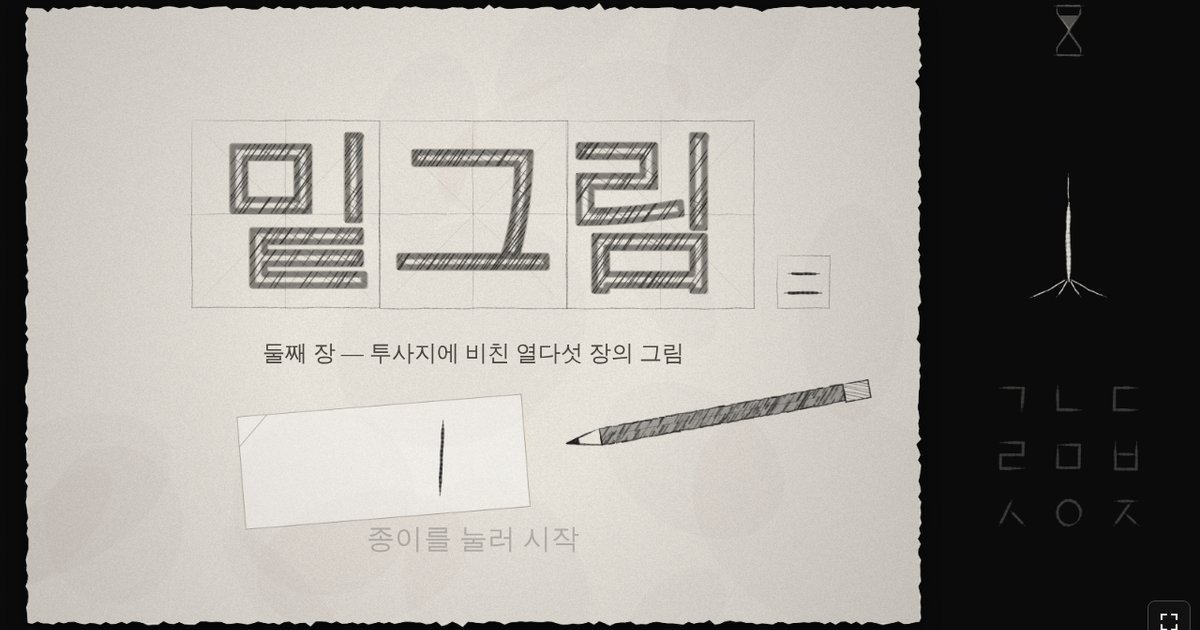
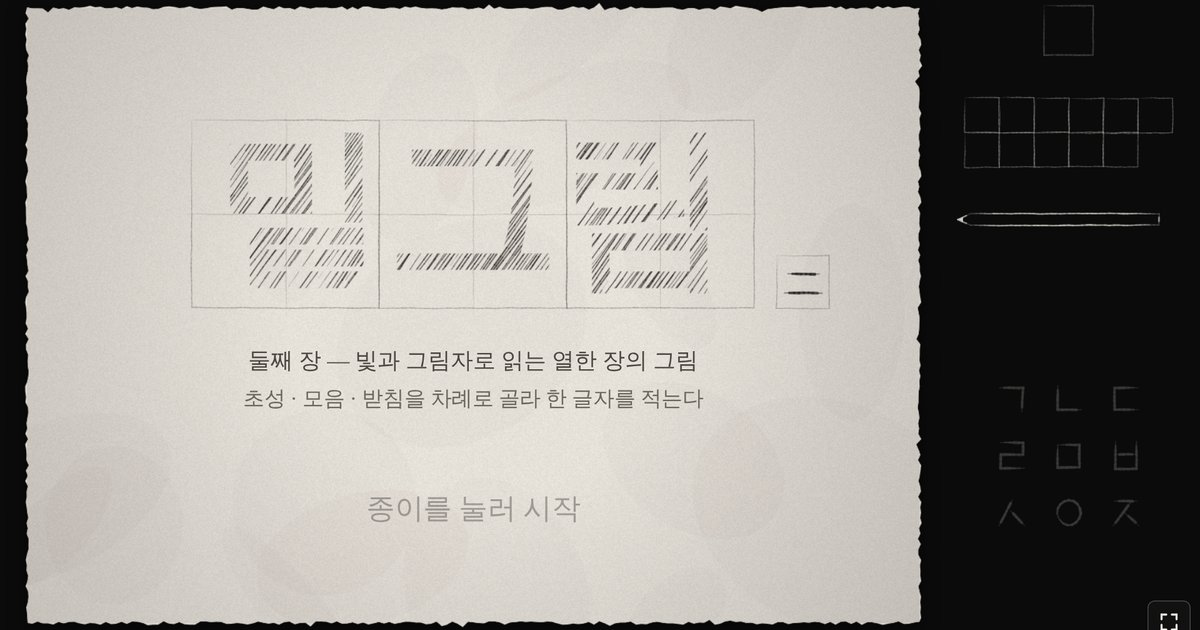
fix(intro): 밑그림 둘째 장 소개 화면을 새 판에 맞춤
소개 글과 화면 캡처가 투사지를 쓰던 첫 판 기준이었다. 사물의 모양과 그림자로 푸는 열한 장 판으로 글·캡처·미리보기 그림을 새로 했고, 다른 게임 소개 화면의 비슷한 게임 카드 설명도 바꿨다.

diff --git a/intro/mitgeurim2/index.html b/intro/mitgeurim2/index.html
@@ -3,15 +3,15 @@
 <head>
 <meta charset="utf-8">
 <meta name="viewport" content="width=device-width, initial-scale=1, viewport-fit=cover">
-<title>밑그림 둘째 장 | 투사지로 숨은 글자를 찾는 고난도 그림 퍼즐 · 무료 웹게임</title>
-<meta name="description" content="연필로 그린 방의 사물은 자음, 투사지에 베낀 먹선은 모음. 둘을 겹쳐 글자를 만드는 열다섯 장의 그림 퍼즐. 「밑그림」의 둘째 장, 설치 없이 바로 하는 무료 고난도 웹 퍼즐.">
-<meta name="keywords" content="고난도 퍼즐, 그림 퍼즐, 숨은 글자 찾기, 한글 퍼즐, 방탈출 게임, 무료 웹게임, 밑그림 2, 달빛 오락실">
+<title>밑그림 둘째 장 | 사물과 그림자로 숨은 글자를 찾는 그림 퍼즐 · 무료 웹게임</title>
+<meta name="description" content="연필로 그린 방의 사물을 세우고, 돌리고, 촛불을 옮기면 사물의 모양과 그림자가 한 글자가 된다. 열한 장의 그림에서 글자를 모아 한 문장을 완성하는 「밑그림」의 둘째 장. 설치 없이 바로 하는 무료 웹 퍼즐.">
+<meta name="keywords" content="그림 퍼즐, 그림자 퍼즐, 숨은 글자 찾기, 한글 퍼즐, 방탈출 게임, 무료 웹게임, 밑그림 2, 달빛 오락실">
 <link rel="canonical" href="https://game.edoori.co.kr/intro/mitgeurim2/">
 <meta name="theme-color" content="#17153a">
 <meta property="og:type" content="website">
 <meta property="og:site_name" content="달빛 오락실">
 <meta property="og:title" content="밑그림 둘째 장 · 달빛 오락실">
-<meta property="og:description" content="연필로 그린 방의 사물은 자음, 투사지에 베낀 먹선은 모음. 둘을 겹쳐 글자를 만드는 열다섯 장의 그림 퍼즐. 「밑그림」의 둘째 장, 설치 없이 바로 하는 무료 고난도 웹 퍼즐.">
+<meta property="og:description" content="연필로 그린 방의 사물을 세우고, 돌리고, 촛불을 옮기면 사물의 모양과 그림자가 한 글자가 된다. 열한 장의 그림에서 글자를 모아 한 문장을 완성하는 「밑그림」의 둘째 장. 설치 없이 바로 하는 무료 웹 퍼즐.">
 <meta property="og:url" content="https://game.edoori.co.kr/intro/mitgeurim2/">
 <meta property="og:image" content="https://game.edoori.co.kr/intro/mitgeurim2/og.jpg">
 <meta property="og:image:width" content="1200">
@@ -22,7 +22,7 @@
 <link rel="preconnect" href="https://fonts.gstatic.com" crossorigin>
 <link href="https://fonts.googleapis.com/css2?family=Jua&family=Gowun+Dodum&display=swap" rel="stylesheet">
 <link rel="stylesheet" href="../intro.css?v=4c868d9e">
-<script type="application/ld+json">{"@context": "https://schema.org", "@type": "VideoGame", "name": "밑그림 둘째 장", "description": "연필로 그린 방의 사물은 자음, 투사지에 베낀 먹선은 모음. 둘을 겹쳐 글자를 만드는 열다섯 장의 그림 퍼즐. 「밑그림」의 둘째 장, 설치 없이 바로 하는 무료 고난도 웹 퍼즐.", "url": "https://game.edoori.co.kr/intro/mitgeurim2/", "image": "https://game.edoori.co.kr/intro/mitgeurim2/og.jpg", "genre": "퍼즐 게임", "gamePlatform": ["웹 브라우저", "휴대폰", "태블릿", "컴퓨터"], "applicationCategory": "Game", "operatingSystem": "Any", "inLanguage": "ko", "isAccessibleForFree": true, "offers": {"@type": "Offer", "price": "0", "priceCurrency": "KRW"}, "isPartOf": {"@type": "WebSite", "name": "달빛 오락실", "url": "https://game.edoori.co.kr/"}}</script>
+<script type="application/ld+json">{"@context": "https://schema.org", "@type": "VideoGame", "name": "밑그림 둘째 장", "description": "연필로 그린 방의 사물을 세우고, 돌리고, 촛불을 옮기면 사물의 모양과 그림자가 한 글자가 된다. 열한 장의 그림에서 글자를 모아 한 문장을 완성하는 「밑그림」의 둘째 장. 설치 없이 바로 하는 무료 웹 퍼즐.", "url": "https://game.edoori.co.kr/intro/mitgeurim2/", "image": "https://game.edoori.co.kr/intro/mitgeurim2/og.jpg", "genre": "퍼즐 게임", "gamePlatform": ["웹 브라우저", "휴대폰", "태블릿", "컴퓨터"], "applicationCategory": "Game", "operatingSystem": "Any", "inLanguage": "ko", "isAccessibleForFree": true, "offers": {"@type": "Offer", "price": "0", "priceCurrency": "KRW"}, "isPartOf": {"@type": "WebSite", "name": "달빛 오락실", "url": "https://game.edoori.co.kr/"}}</script>
 </head>
 <body class="landscape">
 <div class="sky" aria-hidden="true"></div>
@@ -33,12 +33,12 @@
 
 <main>
   <section class="hero">
-    <div class="hero-img"><img src="shot0.webp" width="1280" height="720" alt="밑그림 둘째 장 첫 화면" fetchpriority="high"></div>
+    <div class="hero-img"><img src="shot0.webp" width="1400" height="788" alt="밑그림 둘째 장 첫 화면" fetchpriority="high"></div>
     <div class="hero-txt">
       <p class="eyebrow">🧩 퍼즐 게임 · 무료 · 설치 없음</p>
       <h1>밑그림 둘째 장</h1>
-      <p class="lead">“투사지에 비친 열다섯 장의 그림”</p>
-      <ul class="facts"><li><span aria-hidden="true">⏱</span>전체 1시간 이상</li><li><span aria-hidden="true">🖼</span>그림 퍼즐 15장</li><li><span aria-hidden="true">↔</span>가로 화면</li><li><span aria-hidden="true">💾</span>자동 저장</li></ul>
+      <p class="lead">“빛과 그림자로 읽는 열한 장의 그림”</p>
+      <ul class="facts"><li><span aria-hidden="true">⏱</span>전체 30~60분</li><li><span aria-hidden="true">🖼</span>그림 퍼즐 11장</li><li><span aria-hidden="true">↔</span>가로 화면</li><li><span aria-hidden="true">💾</span>자동 저장</li></ul>
       <a class="start" href="/mitgeurim2/"><span aria-hidden="true">▶</span> 게임 시작</a>
       <p class="free">회원가입 없이 누르면 바로 시작돼요</p>
     </div>
@@ -46,26 +46,26 @@
 
   <section class="card">
     <h2>어떤 게임인가요?</h2>
-    <p>연필로 그린 방이 다시 열렸어요. 이번에는 책상 위에 반투명한 투사지 한 장이 놓여 있어요.</p><p>그림 속 사물은 글자의 첫소리와 받침이 되고, 투사지에 베낀 먹선은 가운데 모음이 돼요. 투사지를 그림의 접힌 자국에 딱 맞춰 겹쳐야 비로소 한 글자가 완성돼요.</p><p>한 장에서 베낀 먹선이 다음 장의 열쇠가 되고, 열네 장의 글자가 모이면 마지막 벽에 한 문장이 떠올라요. 1편을 하지 않았어도 바로 시작할 수 있어요.</p>
+    <p>연필로 그린 방이 다시 열렸어요. 이번 방의 사물들은 아직 흐린 밑그림이에요. 엎어진 액자, 물이 새는 세면대, 바람 빠진 풍선, 창밖의 호수, 벽 앞에 놓인 철사 조각…</p><p>사물을 제자리에 두면 그 모양이 한 글자가 돼요. 액자를 세우고, 수도꼭지를 돌리고, 창을 닫아 물결을 재워 보세요. 뒤로 가면 철사 조각의 그림자가 글자가 되는데, 그림자는 진짜 빛처럼 움직여요. 촛불을 옮기고, 등불을 올리고, 시곗바늘을 돌려 해의 기울기를 바꿔 보세요.</p><p>그림을 풀 때마다 밑그림이 진한 그림으로 완성돼요. 열한 장을 모두 풀면 모은 글자로 한 문장을 만들 차례예요. 1편을 하지 않았어도 바로 시작할 수 있어요.</p>
   </section>
 
   <section class="card">
     <h2>이렇게 해요</h2>
-    <ol class="steps"><li class="step"><div class="step-no">STEP 1</div><div class="step-ico" aria-hidden="true">👆</div><h3>사물을 살펴요</h3><p>방 안의 물건을 누르면 그 그림으로 들어가요. 움직이고, 당기고, 전등을 켜고 꺼 보며 글자가 될 모양을 찾아요.</p></li><li class="step"><div class="step-no">STEP 2</div><div class="step-ico" aria-hidden="true">📜</div><h3>먹선을 베껴요</h3><p>그림 속 먹선을 투사지에 베끼고, 투사지를 접힌 자국에 맞춰 겹쳐요. 돌아간 자국이면 투사지도 따라 돌아요.</p></li><li class="step"><div class="step-no">STEP 3</div><div class="step-ico" aria-hidden="true">✍</div><h3>글자를 적어요</h3><p>오른쪽 음절판에 첫소리 → 모음 → 받침 순서로 적어요. 맞히면 빨간 도장이 찍히고 나무에 잎이 돋아요.</p></li></ol>
-    <div class="shots"><figure class="shot"><img src="shot1.webp" width="1280" height="720" alt="투사지가 놓인 연필 그림 방" loading="lazy" decoding="async"><figcaption>투사지가 놓인 연필 그림 방</figcaption></figure></div>
+    <ol class="steps"><li class="step"><div class="step-no">STEP 1</div><div class="step-ico" aria-hidden="true">👆</div><h3>밑그림을 눌러요</h3><p>방 안의 흐린 사물을 누르면 그 그림으로 들어가요. 끌고, 누르고, 돌려 보며 사물을 제자리에 두어요.</p></li><li class="step"><div class="step-no">STEP 2</div><div class="step-ico" aria-hidden="true">🕯</div><h3>빛을 움직여요</h3><p>그림자 그림에서는 빛이나 조각을 옮겨요. 벽의 빈 액자 안에서 그림자가 무엇으로 읽히는지 스스로 알아봐야 해요.</p></li><li class="step"><div class="step-no">STEP 3</div><div class="step-ico" aria-hidden="true">✍</div><h3>글자를 적어요</h3><p>오른쪽 음절판에 첫소리 → 모음 → 받침 순서로 적어요. 맞히면 빨간 도장이 찍히고 오른쪽 원고지 한 칸이 채워져요.</p></li></ol>
+    <div class="shots"><figure class="shot"><img src="shot1.webp" width="1400" height="788" alt="흐린 밑그림으로 그려진 방" loading="lazy" decoding="async"><figcaption>흐린 밑그림으로 그려진 방</figcaption></figure><figure class="shot"><img src="shot2.webp" width="1400" height="788" alt="촛불 앞 철사 조각과 벽의 그림자" loading="lazy" decoding="async"><figcaption>촛불 앞 철사 조각과 벽의 그림자</figcaption></figure></div>
   </section>
 
-  <section class="card half"><h2>🌿 알아 두면 좋아요</h2><ul class="dots"><li>틀리면 잎이 하나 떨어지고, 세 번 틀리면 종이가 번져서 잠시 기다려야 해요.</li><li>오른쪽 위 모래시계는 그림 안에서만 흘러요. 모래가 다 내려오면 힌트가 하나씩 열려요. 한 장에 힌트는 세 개예요.</li><li>낮과 밤에 보이는 것이 달라요. 막히면 방의 전등을 꺼 보세요.</li><li>다시 처음부터 하고 싶으면 첫 화면이나 방 화면 오른쪽 아래의 「처음부터 새로」를 두 번 눌러요.</li></ul></section>
+  <section class="card half"><h2>🌿 알아 두면 좋아요</h2><ul class="dots"><li>게임은 맞았다고 먼저 알려 주지 않아요. 그림이 글자로 보일 때 스스로 판단해서 적어요.</li><li>틀리면 오른쪽 연필을 한 번 깎아요. 세 번 틀리면 종이가 번져서 잠시 기다려야 해요.</li><li>오른쪽 위 네모는 그림 안에 머무는 동안 연필 빗금으로 차요. 다 차면 눌러서 힌트를 볼 수 있어요. 한 장에 힌트는 세 개예요.</li><li>다시 처음부터 하고 싶으면 첫 화면이나 방 화면 오른쪽 아래의 「처음부터 새로」를 두 번 눌러요.</li></ul></section>
 
   <section class="card half">
     <h2>이런 분께 추천해요</h2>
-    <ul class="dots"><li>「밑그림」을 끝내고 더 어려운 퍼즐을 기다린 분</li><li>방탈출·암호 풀기를 좋아하는 분</li><li>한글이 모이고 겹쳐 글자가 되는 순간을 좋아하는 분</li></ul>
-    <p class="tip"><span aria-hidden="true">💡</span> 설명이 거의 없는 게임이라 막히는 게 당연해요. 모래시계 힌트를 기다리고, 투사지를 이리저리 돌려 보세요. 1편보다 어렵다면 「밑그림」부터 해 보는 것도 좋아요.</p>
+    <ul class="dots"><li>「밑그림」을 끝내고 둘째 장을 기다린 분</li><li>그림자놀이, 빛과 물체가 만드는 모양을 좋아하는 분</li><li>설명 없이 스스로 알아내는 퍼즐을 좋아하는 분</li></ul>
+    <p class="tip"><span aria-hidden="true">💡</span> 설명이 거의 없는 게임이라 처음엔 무엇을 할지 모를 수 있어요. 흐린 사물을 이리저리 만져 보고, 막히면 힌트 네모가 차기를 기다려 보세요.</p>
   </section>
 
   <section class="card half" id="device">
     <h2>📱 어떤 기기에서 하면 좋을까요?</h2>
-    <ul class="devs"><li class="dev"><span class="badge ok">가장 좋아요</span><div><b>컴퓨터·노트북</b> <small>크롬·엣지·웨일</small><p>투사지를 마우스로 섬세하게 맞출 수 있어요. 오른쪽 아래 전체 화면 버튼을 누르면 꽉 차요.</p></div></li><li class="dev"><span class="badge good">좋아요</span><div><b>태블릿</b> <small>아이패드·갤럭시탭</small><p>손가락으로 투사지를 끌고 돌리는 재미가 있어요. 가로로 눕혀 주세요.</p></div></li><li class="dev"><span class="badge soso">괜찮아요</span><div><b>휴대폰</b> <small>가로로 돌려서</small><p>가로 화면에서만 그려져요. 가는 먹선을 맞춰야 해서 화면이 작으면 조금 힘들 수 있어요.</p></div></li></ul>
+    <ul class="devs"><li class="dev"><span class="badge ok">가장 좋아요</span><div><b>컴퓨터·노트북</b> <small>크롬·엣지·웨일</small><p>마우스로 촛불과 조각을 섬세하게 옮길 수 있어요. 마지막 글자 배열도 끌어다 놓으면 편해요. 오른쪽 아래 전체 화면 버튼을 누르면 꽉 차요.</p></div></li><li class="dev"><span class="badge good">좋아요</span><div><b>태블릿</b> <small>아이패드·갤럭시탭</small><p>손가락으로 빛을 옮기는 재미가 있어요. 가로로 눕혀 주세요.</p></div></li><li class="dev"><span class="badge soso">괜찮아요</span><div><b>휴대폰</b> <small>가로로 돌려서</small><p>가로 화면에서만 그려져요. 그림자를 읽어야 해서 화면이 작으면 조금 힘들 수 있어요.</p></div></li></ul>
     <div class="warn">
       <b>⚠ 카카오톡·네이버 앱 안에서 열었다면</b>
       <p>오른쪽 위 메뉴(⋮ 또는 ···)에서 「다른 브라우저로 열기」를 눌러 크롬이나 사파리로 열어 주세요. 앱 안에서는 전체 화면이 안 되고 저장이 풀릴 수 있어요.</p>

diff --git a/intro/foglamp/index.html b/intro/foglamp/index.html
@@ -90,7 +90,7 @@
     <h2>🌙 이런 게임은 어때요?</h2>
     <div class="sims"><a class="sim" href="../mango/"><span class="sim-emo" aria-hidden="true">🐱</span><span class="sim-txt"><b>탐정 망고의 춤추는 대수사선</b><small>단서가 무엇을 증명하는지 따져 도토리 마을의 사건을 풀어요</small></span></a>
 <a class="sim" href="../myungyun/"><span class="sim-emo" aria-hidden="true">🎡</span><span class="sim-txt"><b>裵鄭 명윤랜드</b><small>음악 박자에 맞춰 도는 관람차에 같은 색 손님을 태워요</small></span></a>
-<a class="sim" href="../mitgeurim2/"><span class="sim-emo" aria-hidden="true">📜</span><span class="sim-txt"><b>밑그림 둘째 장</b><small>투사지에 먹선을 베껴 겹치면 글자가 되는 열다섯 장의 그림 퍼즐</small></span></a></div>
+<a class="sim" href="../mitgeurim2/"><span class="sim-emo" aria-hidden="true">📜</span><span class="sim-txt"><b>밑그림 둘째 장</b><small>사물의 모양과 그림자로 한 글자씩 찾는 열한 장의 그림 퍼즐</small></span></a></div>
     <a class="back" href="/">← 달빛 오락실 입구로</a>
   </section>
 </main>

diff --git a/intro/mitgeurim/index.html b/intro/mitgeurim/index.html
@@ -89,7 +89,7 @@
   <section class="more">
     <h2>🌙 이런 게임은 어때요?</h2>
     <div class="sims"><a class="sim" href="../myungyun/"><span class="sim-emo" aria-hidden="true">🎡</span><span class="sim-txt"><b>裵鄭 명윤랜드</b><small>음악 박자에 맞춰 도는 관람차에 같은 색 손님을 태워요</small></span></a>
-<a class="sim" href="../mitgeurim2/"><span class="sim-emo" aria-hidden="true">📜</span><span class="sim-txt"><b>밑그림 둘째 장</b><small>투사지에 먹선을 베껴 겹치면 글자가 되는 열다섯 장의 그림 퍼즐</small></span></a>
+<a class="sim" href="../mitgeurim2/"><span class="sim-emo" aria-hidden="true">📜</span><span class="sim-txt"><b>밑그림 둘째 장</b><small>사물의 모양과 그림자로 한 글자씩 찾는 열한 장의 그림 퍼즐</small></span></a>
 <a class="sim" href="../lumenfall/"><span class="sim-emo" aria-hidden="true">🪟</span><span class="sim-txt"><b>루멘폴</b><small>유리 조각에 물감을 떨어뜨려 스테인드글라스를 완성해요</small></span></a></div>
     <a class="back" href="/">← 달빛 오락실 입구로</a>
   </section>

diff --git a/intro/myungyun/index.html b/intro/myungyun/index.html
@@ -88,7 +88,7 @@
 
   <section class="more">
     <h2>🌙 이런 게임은 어때요?</h2>
-    <div class="sims"><a class="sim" href="../mitgeurim2/"><span class="sim-emo" aria-hidden="true">📜</span><span class="sim-txt"><b>밑그림 둘째 장</b><small>투사지에 먹선을 베껴 겹치면 글자가 되는 열다섯 장의 그림 퍼즐</small></span></a>
+    <div class="sims"><a class="sim" href="../mitgeurim2/"><span class="sim-emo" aria-hidden="true">📜</span><span class="sim-txt"><b>밑그림 둘째 장</b><small>사물의 모양과 그림자로 한 글자씩 찾는 열한 장의 그림 퍼즐</small></span></a>
 <a class="sim" href="../mitgeurim/"><span class="sim-emo" aria-hidden="true">✏</span><span class="sim-txt"><b>밑그림</b><small>연필 선 밑에 숨은 글자를 찾는 열 장의 그림 퍼즐</small></span></a>
 <a class="sim" href="../lumenfall/"><span class="sim-emo" aria-hidden="true">🪟</span><span class="sim-txt"><b>루멘폴</b><small>유리 조각에 물감을 떨어뜨려 스테인드글라스를 완성해요</small></span></a></div>
     <a class="back" href="/">← 달빛 오락실 입구로</a>

diff --git a/intro/hangul/index.html b/intro/hangul/index.html
@@ -89,7 +89,7 @@
   <section class="more">
     <h2>🌙 이런 게임은 어때요?</h2>
     <div class="sims"><a class="sim" href="../myungyun/"><span class="sim-emo" aria-hidden="true">🎡</span><span class="sim-txt"><b>裵鄭 명윤랜드</b><small>음악 박자에 맞춰 도는 관람차에 같은 색 손님을 태워요</small></span></a>
-<a class="sim" href="../mitgeurim2/"><span class="sim-emo" aria-hidden="true">📜</span><span class="sim-txt"><b>밑그림 둘째 장</b><small>투사지에 먹선을 베껴 겹치면 글자가 되는 열다섯 장의 그림 퍼즐</small></span></a>
+<a class="sim" href="../mitgeurim2/"><span class="sim-emo" aria-hidden="true">📜</span><span class="sim-txt"><b>밑그림 둘째 장</b><small>사물의 모양과 그림자로 한 글자씩 찾는 열한 장의 그림 퍼즐</small></span></a>
 <a class="sim" href="../mitgeurim/"><span class="sim-emo" aria-hidden="true">✏</span><span class="sim-txt"><b>밑그림</b><small>연필 선 밑에 숨은 글자를 찾는 열 장의 그림 퍼즐</small></span></a></div>
     <a class="back" href="/">← 달빛 오락실 입구로</a>
   </section>

diff --git a/intro/lanternfall/index.html b/intro/lanternfall/index.html
@@ -89,7 +89,7 @@
   <section class="more">
     <h2>🌙 이런 게임은 어때요?</h2>
     <div class="sims"><a class="sim" href="../myungyun/"><span class="sim-emo" aria-hidden="true">🎡</span><span class="sim-txt"><b>裵鄭 명윤랜드</b><small>음악 박자에 맞춰 도는 관람차에 같은 색 손님을 태워요</small></span></a>
-<a class="sim" href="../mitgeurim2/"><span class="sim-emo" aria-hidden="true">📜</span><span class="sim-txt"><b>밑그림 둘째 장</b><small>투사지에 먹선을 베껴 겹치면 글자가 되는 열다섯 장의 그림 퍼즐</small></span></a>
+<a class="sim" href="../mitgeurim2/"><span class="sim-emo" aria-hidden="true">📜</span><span class="sim-txt"><b>밑그림 둘째 장</b><small>사물의 모양과 그림자로 한 글자씩 찾는 열한 장의 그림 퍼즐</small></span></a>
 <a class="sim" href="../mitgeurim/"><span class="sim-emo" aria-hidden="true">✏</span><span class="sim-txt"><b>밑그림</b><small>연필 선 밑에 숨은 글자를 찾는 열 장의 그림 퍼즐</small></span></a></div>
     <a class="back" href="/">← 달빛 오락실 입구로</a>
   </section>

diff --git a/intro/lumenfall/index.html b/intro/lumenfall/index.html
@@ -89,7 +89,7 @@
   <section class="more">
     <h2>🌙 이런 게임은 어때요?</h2>
     <div class="sims"><a class="sim" href="../myungyun/"><span class="sim-emo" aria-hidden="true">🎡</span><span class="sim-txt"><b>裵鄭 명윤랜드</b><small>음악 박자에 맞춰 도는 관람차에 같은 색 손님을 태워요</small></span></a>
-<a class="sim" href="../mitgeurim2/"><span class="sim-emo" aria-hidden="true">📜</span><span class="sim-txt"><b>밑그림 둘째 장</b><small>투사지에 먹선을 베껴 겹치면 글자가 되는 열다섯 장의 그림 퍼즐</small></span></a>
+<a class="sim" href="../mitgeurim2/"><span class="sim-emo" aria-hidden="true">📜</span><span class="sim-txt"><b>밑그림 둘째 장</b><small>사물의 모양과 그림자로 한 글자씩 찾는 열한 장의 그림 퍼즐</small></span></a>
 <a class="sim" href="../mitgeurim/"><span class="sim-emo" aria-hidden="true">✏</span><span class="sim-txt"><b>밑그림</b><small>연필 선 밑에 숨은 글자를 찾는 열 장의 그림 퍼즐</small></span></a></div>
     <a class="back" href="/">← 달빛 오락실 입구로</a>
   </section>

diff --git a/intro/puzzle25/index.html b/intro/puzzle25/index.html
@@ -89,7 +89,7 @@
   <section class="more">
     <h2>🌙 이런 게임은 어때요?</h2>
     <div class="sims"><a class="sim" href="../myungyun/"><span class="sim-emo" aria-hidden="true">🎡</span><span class="sim-txt"><b>裵鄭 명윤랜드</b><small>음악 박자에 맞춰 도는 관람차에 같은 색 손님을 태워요</small></span></a>
-<a class="sim" href="../mitgeurim2/"><span class="sim-emo" aria-hidden="true">📜</span><span class="sim-txt"><b>밑그림 둘째 장</b><small>투사지에 먹선을 베껴 겹치면 글자가 되는 열다섯 장의 그림 퍼즐</small></span></a>
+<a class="sim" href="../mitgeurim2/"><span class="sim-emo" aria-hidden="true">📜</span><span class="sim-txt"><b>밑그림 둘째 장</b><small>사물의 모양과 그림자로 한 글자씩 찾는 열한 장의 그림 퍼즐</small></span></a>
 <a class="sim" href="../mitgeurim/"><span class="sim-emo" aria-hidden="true">✏</span><span class="sim-txt"><b>밑그림</b><small>연필 선 밑에 숨은 글자를 찾는 열 장의 그림 퍼즐</small></span></a></div>
     <a class="back" href="/">← 달빛 오락실 입구로</a>
   </section>

diff --git a/intro/mango/index.html b/intro/mango/index.html
@@ -90,7 +90,7 @@
     <h2>🌙 이런 게임은 어때요?</h2>
     <div class="sims"><a class="sim" href="../foglamp/"><span class="sim-emo" aria-hidden="true">🌫</span><span class="sim-txt"><b>안개등</b><small>비 오는 항구, 물건을 겹쳐 숨은 글자를 찾는 느와르 퍼즐</small></span></a>
 <a class="sim" href="../myungyun/"><span class="sim-emo" aria-hidden="true">🎡</span><span class="sim-txt"><b>裵鄭 명윤랜드</b><small>음악 박자에 맞춰 도는 관람차에 같은 색 손님을 태워요</small></span></a>
-<a class="sim" href="../mitgeurim2/"><span class="sim-emo" aria-hidden="true">📜</span><span class="sim-txt"><b>밑그림 둘째 장</b><small>투사지에 먹선을 베껴 겹치면 글자가 되는 열다섯 장의 그림 퍼즐</small></span></a></div>
+<a class="sim" href="../mitgeurim2/"><span class="sim-emo" aria-hidden="true">📜</span><span class="sim-txt"><b>밑그림 둘째 장</b><small>사물의 모양과 그림자로 한 글자씩 찾는 열한 장의 그림 퍼즐</small></span></a></div>
     <a class="back" href="/">← 달빛 오락실 입구로</a>
   </section>
 </main>

diff --git a/intro/tools/games.py b/intro/tools/games.py
@@ -15,7 +15,7 @@ CATS = {
 ALL = [
     # slug, 이모지, 이름, 분류, 한 줄
     ("myungyun", "🎡", "裵鄭 명윤랜드", "puzzle", "음악 박자에 맞춰 도는 관람차에 같은 색 손님을 태워요"),
-    ("mitgeurim2", "📜", "밑그림 둘째 장", "puzzle", "투사지에 먹선을 베껴 겹치면 글자가 되는 열다섯 장의 그림 퍼즐"),
+    ("mitgeurim2", "📜", "밑그림 둘째 장", "puzzle", "사물의 모양과 그림자로 한 글자씩 찾는 열한 장의 그림 퍼즐"),
     ("mitgeurim", "✏", "밑그림", "puzzle", "연필 선 밑에 숨은 글자를 찾는 열 장의 그림 퍼즐"),
     ("lumenfall", "🪟", "루멘폴", "puzzle", "유리 조각에 물감을 떨어뜨려 스테인드글라스를 완성해요"),
     ("lanternfall", "🏮", "랜턴폴", "puzzle", "등불 하나가 터지면 옆으로 번져 밤하늘을 밝혀요"),
@@ -111,32 +111,32 @@ GAMES["mitgeurim"] = dict(
 
 GAMES["mitgeurim2"] = dict(
     name="밑그림 둘째 장", short="밑그림 2", emoji="📜", cat="puzzle",
-    title_seo="밑그림 둘째 장 | 투사지로 숨은 글자를 찾는 고난도 그림 퍼즐 · 무료 웹게임",
-    desc="연필로 그린 방의 사물은 자음, 투사지에 베낀 먹선은 모음. 둘을 겹쳐 글자를 만드는 열다섯 장의 그림 퍼즐. 「밑그림」의 둘째 장, 설치 없이 바로 하는 무료 고난도 웹 퍼즐.",
-    lead="투사지에 비친 열다섯 장의 그림",
+    title_seo="밑그림 둘째 장 | 사물과 그림자로 숨은 글자를 찾는 그림 퍼즐 · 무료 웹게임",
+    desc="연필로 그린 방의 사물을 세우고, 돌리고, 촛불을 옮기면 사물의 모양과 그림자가 한 글자가 된다. 열한 장의 그림에서 글자를 모아 한 문장을 완성하는 「밑그림」의 둘째 장. 설치 없이 바로 하는 무료 웹 퍼즐.",
+    lead="빛과 그림자로 읽는 열한 장의 그림",
     orient="landscape",
-    facts=[("⏱", "전체 1시간 이상"), ("🖼", "그림 퍼즐 15장"), ("↔", "가로 화면"), ("💾", "자동 저장")],
+    facts=[("⏱", "전체 30~60분"), ("🖼", "그림 퍼즐 11장"), ("↔", "가로 화면"), ("💾", "자동 저장")],
     story=[
-        "연필로 그린 방이 다시 열렸어요. 이번에는 책상 위에 반투명한 투사지 한 장이 놓여 있어요.",
-        "그림 속 사물은 글자의 첫소리와 받침이 되고, 투사지에 베낀 먹선은 가운데 모음이 돼요. 투사지를 그림의 접힌 자국에 딱 맞춰 겹쳐야 비로소 한 글자가 완성돼요.",
-        "한 장에서 베낀 먹선이 다음 장의 열쇠가 되고, 열네 장의 글자가 모이면 마지막 벽에 한 문장이 떠올라요. 1편을 하지 않았어도 바로 시작할 수 있어요.",
+        "연필로 그린 방이 다시 열렸어요. 이번 방의 사물들은 아직 흐린 밑그림이에요. 엎어진 액자, 물이 새는 세면대, 바람 빠진 풍선, 창밖의 호수, 벽 앞에 놓인 철사 조각…",
+        "사물을 제자리에 두면 그 모양이 한 글자가 돼요. 액자를 세우고, 수도꼭지를 돌리고, 창을 닫아 물결을 재워 보세요. 뒤로 가면 철사 조각의 그림자가 글자가 되는데, 그림자는 진짜 빛처럼 움직여요. 촛불을 옮기고, 등불을 올리고, 시곗바늘을 돌려 해의 기울기를 바꿔 보세요.",
+        "그림을 풀 때마다 밑그림이 진한 그림으로 완성돼요. 열한 장을 모두 풀면 모은 글자로 한 문장을 만들 차례예요. 1편을 하지 않았어도 바로 시작할 수 있어요.",
     ],
     steps=[
-        ("👆", "사물을 살펴요", "방 안의 물건을 누르면 그 그림으로 들어가요. 움직이고, 당기고, 전등을 켜고 꺼 보며 글자가 될 모양을 찾아요."),
-        ("📜", "먹선을 베껴요", "그림 속 먹선을 투사지에 베끼고, 투사지를 접힌 자국에 맞춰 겹쳐요. 돌아간 자국이면 투사지도 따라 돌아요."),
-        ("✍", "글자를 적어요", "오른쪽 음절판에 첫소리 → 모음 → 받침 순서로 적어요. 맞히면 빨간 도장이 찍히고 나무에 잎이 돋아요."),
+        ("👆", "밑그림을 눌러요", "방 안의 흐린 사물을 누르면 그 그림으로 들어가요. 끌고, 누르고, 돌려 보며 사물을 제자리에 두어요."),
+        ("🕯", "빛을 움직여요", "그림자 그림에서는 빛이나 조각을 옮겨요. 벽의 빈 액자 안에서 그림자가 무엇으로 읽히는지 스스로 알아봐야 해요."),
+        ("✍", "글자를 적어요", "오른쪽 음절판에 첫소리 → 모음 → 받침 순서로 적어요. 맞히면 빨간 도장이 찍히고 오른쪽 원고지 한 칸이 채워져요."),
     ],
     extra_title="🌿 알아 두면 좋아요",
-    extra=["틀리면 잎이 하나 떨어지고, 세 번 틀리면 종이가 번져서 잠시 기다려야 해요.",
-           "오른쪽 위 모래시계는 그림 안에서만 흘러요. 모래가 다 내려오면 힌트가 하나씩 열려요. 한 장에 힌트는 세 개예요.",
-           "낮과 밤에 보이는 것이 달라요. 막히면 방의 전등을 꺼 보세요.",
+    extra=["게임은 맞았다고 먼저 알려 주지 않아요. 그림이 글자로 보일 때 스스로 판단해서 적어요.",
+           "틀리면 오른쪽 연필을 한 번 깎아요. 세 번 틀리면 종이가 번져서 잠시 기다려야 해요.",
+           "오른쪽 위 네모는 그림 안에 머무는 동안 연필 빗금으로 차요. 다 차면 눌러서 힌트를 볼 수 있어요. 한 장에 힌트는 세 개예요.",
            "다시 처음부터 하고 싶으면 첫 화면이나 방 화면 오른쪽 아래의 「처음부터 새로」를 두 번 눌러요."],
-    for_who=["「밑그림」을 끝내고 더 어려운 퍼즐을 기다린 분", "방탈출·암호 풀기를 좋아하는 분", "한글이 모이고 겹쳐 글자가 되는 순간을 좋아하는 분"],
-    tip="설명이 거의 없는 게임이라 막히는 게 당연해요. 모래시계 힌트를 기다리고, 투사지를 이리저리 돌려 보세요. 1편보다 어렵다면 「밑그림」부터 해 보는 것도 좋아요.",
+    for_who=["「밑그림」을 끝내고 둘째 장을 기다린 분", "그림자놀이, 빛과 물체가 만드는 모양을 좋아하는 분", "설명 없이 스스로 알아내는 퍼즐을 좋아하는 분"],
+    tip="설명이 거의 없는 게임이라 처음엔 무엇을 할지 모를 수 있어요. 흐린 사물을 이리저리 만져 보고, 막히면 힌트 네모가 차기를 기다려 보세요.",
     devices=[
-        ("ok", "컴퓨터·노트북", "크롬·엣지·웨일", "투사지를 마우스로 섬세하게 맞출 수 있어요. 오른쪽 아래 전체 화면 버튼을 누르면 꽉 차요."),
-        ("good", "태블릿", "아이패드·갤럭시탭", "손가락으로 투사지를 끌고 돌리는 재미가 있어요. 가로로 눕혀 주세요."),
-        ("soso", "휴대폰", "가로로 돌려서", "가로 화면에서만 그려져요. 가는 먹선을 맞춰야 해서 화면이 작으면 조금 힘들 수 있어요."),
+        ("ok", "컴퓨터·노트북", "크롬·엣지·웨일", "마우스로 촛불과 조각을 섬세하게 옮길 수 있어요. 마지막 글자 배열도 끌어다 놓으면 편해요. 오른쪽 아래 전체 화면 버튼을 누르면 꽉 차요."),
+        ("good", "태블릿", "아이패드·갤럭시탭", "손가락으로 빛을 옮기는 재미가 있어요. 가로로 눕혀 주세요."),
+        ("soso", "휴대폰", "가로로 돌려서", "가로 화면에서만 그려져요. 그림자를 읽어야 해서 화면이 작으면 조금 힘들 수 있어요."),
     ],
     ios=[
         ("사파리로 열고 가로로 돌리기", "세로로 들면 기기를 옆으로 돌려 달라는 안내가 떠요. 화면이 안 돌아가면 제어 센터에서 화면 회전 잠금을 꺼 주세요."),
@@ -145,8 +145,8 @@ GAMES["mitgeurim2"] = dict(
         ("이어서 하려면", "진행은 그 기기에 자동으로 저장돼요. 아이폰 사파리는 오래 들어가지 않은 사이트의 기록을 지우기도 하니, 너무 오래 쉬지 말고 이어서 풀어 주세요."),
     ],
     android="크롬이나 삼성 인터넷으로 열면 첫 터치 때 전체 화면과 가로 고정이 자동으로 켜져요. 안 되면 오른쪽 아래 전체 화면 버튼을 눌러 주세요.",
-    shots=[("shot0.webp", "밑그림 둘째 장 제목 화면"), ("shot1.webp", "투사지가 놓인 연필 그림 방")],
-    keywords="고난도 퍼즐, 그림 퍼즐, 숨은 글자 찾기, 한글 퍼즐, 방탈출 게임, 무료 웹게임, 밑그림 2",
+    shots=[("shot0.webp", "밑그림 둘째 장 제목 화면"), ("shot1.webp", "흐린 밑그림으로 그려진 방"), ("shot2.webp", "촛불 앞 철사 조각과 벽의 그림자")],
+    keywords="그림 퍼즐, 그림자 퍼즐, 숨은 글자 찾기, 한글 퍼즐, 방탈출 게임, 무료 웹게임, 밑그림 2",
 )
 
 GAMES["myungyun"] = dict(
